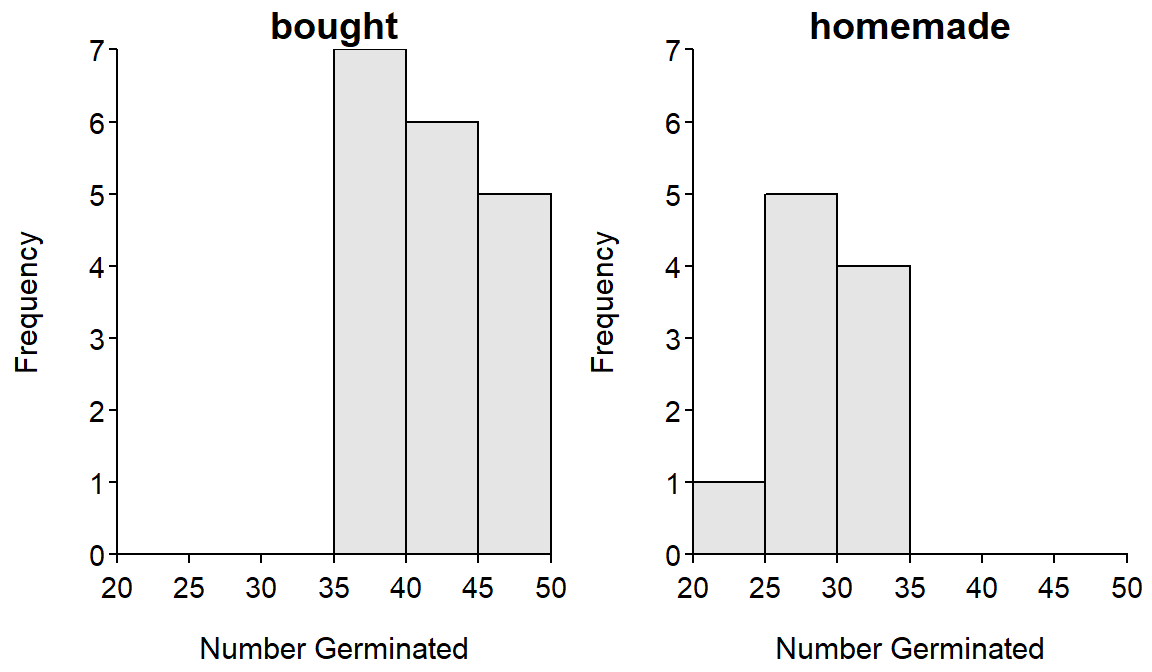
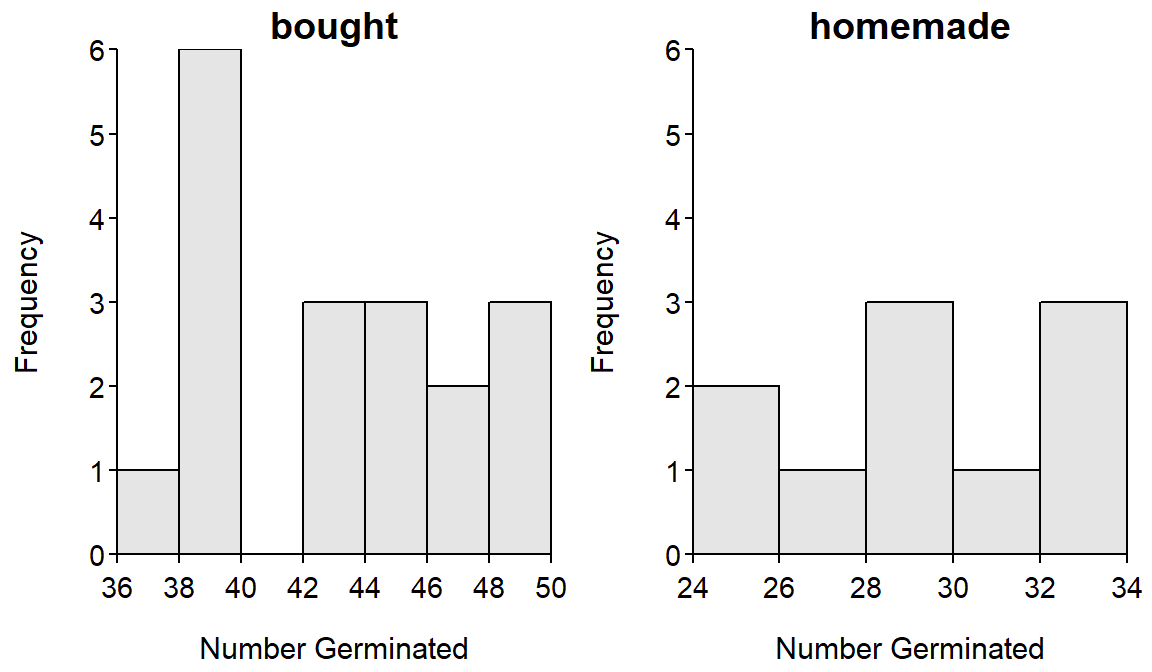
Updated 2t CEs

diff --git a/modules/CE/2Samplet_CE1.html b/modules/CE/2Samplet_CE1.html
@@ -8,9 +8,13 @@ css: "/css/modules.css"
 
 
 <hr />
+<div class="alert alert-success">
+<p>For all “hypothesis testing” questions, make sure to provide explicit answers with your work shown for all <a href="../11-steps,html">11 steps of a hypothesis test</a>.</p>
+</div>
+<hr />
 <div id="compost-type-and-germination-rates" class="section level2">
 <h2>Compost Type and Germination Rates</h2>
-<p><img src="http://derekogle.com/NCMTH107/modules/CE/zimgs/tagetes.jpg" alt="Tagetes" class="img-right"> The owner of a greenhouse developed a methodology to produce sterilized compost for growing plants that was cheaper than the compost she could buy from her soil supplier and allowed her to reduce waste production. However, these benefits could be offset by losses related to poor plant germination and growth. Thus, the owner attempted to answer the queston about germination success by planting 50 seeds of <a href="https://en.wikipedia.org/wiki/Tagetes">marigolds (<em>Tagetes</em> spp.)</a> into individual containers that were filled with either the home-made sterilized compost or compost purchased from the soil supplier. The containers were randomly placed into a large greenhouse where environmental conditions were controlled (i.e., all containers received the same environmental conditions). After five days, the number of (the 50) seeds in each container that had germinated was recorded. The results are shown below.</p>
+<p><img src="http://derekogle.com/NCMTH107/modules/CE/zimgs/tagetes.jpg" alt="Tagetes" class="img-right"> The owner of a greenhouse developed a methodology to produce sterilized compost for growing plants that was cheaper than the compost she could buy while also allowing her to reduce waste production. However, these benefits could be offset by losses related to poor plant germination and growth. Thus, the owner attempted to answer the queston about germination success by planting 50 seeds of <a href="https://en.wikipedia.org/wiki/Tagetes">marigolds (<em>Tagetes</em> spp.)</a> into individual containers that were filled with either the home-made sterilized compost or store-bought compost. The containers were randomly filled with one type of compost and were randomly placed into a large greenhouse where all environmental conditions were controlled. After five days, the number of (the 50) seeds in each container that had germinated was recorded. The results are shown below.</p>
 <pre><code>   compost  n  mean   sd min    Q1 median    Q3 max
 1   bought 18 42.67 4.33  36 39.00   42.5 45.50  50
 2 homemade 10 28.90 3.21  24 27.25   28.0 31.75  33</code></pre>
@@ -19,7 +23,7 @@ css: "/css/modules.css"
 group  1  1.4387 0.2412
       26               </code></pre>
 <p><img src="2Samplet_CE1_files/figure-html/unnamed-chunk-3-1.png" width="576" /></p>
-<p>Use this information to determine, at the 10% level, if the number of seeds that germinated was lower in the home-made compost. [<em>Note that we are testing to see if the germination rate was lower in the home-made compost because that would suggest that it performs worse than the other compost and would increase costs to the greenhouse.</em>] Make sure to provide explicit answers with your work shown for all <a href="../11-steps.html">11 steps of a hypothesis test</a>.<a href="#fn1" class="footnoteRef" id="fnref1"><sup>1</sup></a></p>
+<p>Use this information to determine, at the 10% level, if the number of seeds that germinated was lower in the home-made compost.<a href="#fn1" class="footnote-ref" id="fnref1"><sup>1</sup></a> [<em>NOTE: you are testing if the germination rate was lower in the home-made compost because that would suggest that it performs worse – fewer germinated plants – than the other compost and would increase costs to the greenhouse.</em>]</p>
 <hr />
 <div class="text-center">
 <ul class="pagination pagination-lg">
@@ -42,7 +46,7 @@ group  1  1.4387 0.2412
 <div class="footnotes">
 <hr />
 <ol>
-<li id="fn1"><p>This question was adapted from <a href="http://www.amazon.com/First-Course-Business-Statistics-TEXT/dp/B000MLT2MY/">McClave <em>et al.</em> (1998) <em>First Course in Business Statistics</em></a>.<a href="#fnref1">↩</a></p></li>
+<li id="fn1"><p>This question was adapted from <a href="http://www.amazon.com/First-Course-Business-Statistics-TEXT/dp/B000MLT2MY/">McClave <em>et al.</em> (1998) <em>First Course in Business Statistics</em></a>.<a href="#fnref1" class="footnote-back">↩</a></p></li>
 </ol>
 </div>
 
@@ -63,6 +67,23 @@ $(document).ready(function () {
 
 
 </script>
+
+<!-- tabsets -->
+
+<script>
+$(document).ready(function () {
+  window.buildTabsets("TOC");
+});
+
+$(document).ready(function () {
+  $('.tabset-dropdown > .nav-tabs > li').click(function () {
+    $(this).parent().toggleClass('nav-tabs-open')
+  });
+});
+</script>
+
+<!-- code folding -->
+
 
 <!-- dynamically load mathjax for compatibility with self-contained -->
 <script>

diff --git a/modules/CE/2Samplet_CE2.html b/modules/CE/2Samplet_CE2.html
@@ -8,19 +8,17 @@ css: "/css/modules.css"
 
 
 <hr />
+<div class="alert alert-success">
+<p>For all “hypothesis testing” questions, make sure to provide explicit answers with your work shown for all <a href="../11-steps,html">11 steps of a hypothesis test</a>.</p>
+</div>
+<hr />
 <div id="delivering-military-supplies" class="section level2">
 <h2>Delivering Military Supplies</h2>
-<p><img src="http://derekogle.com/NCMTH107/modules/CE/zimgs/navy-shipping.jpg" alt="Navy Shipping" class="img-right"> Following the <a href="https://en.wikipedia.org/wiki/Gulf_War">Persian Gulf War</a>, the Pentagon changed its logistics processes to be more “corporate-like” – the “just-in-case” mentality was replaced with “just-in-time” systems. Emulating Federal Express and United Parcel Service, deliveries from factories to foxholes were expedited using bar codes, laser cards, radio tags, and databases to track supplies. The data below contains order-to-delivery times (in days) for shipments from the United States to the Persian Gulf in 1991 (old system) and shipments to Bosnia in 1995 (new system). Use these data to determine, at the 5% level, if the mean delivery rates declined significantly under the new system. Assume that the distributions are approxiately normally distributed. Make sure to provide explicit answers with your work shown for all <a href="../11-steps">11 steps of a hypothesis test</a>.<a href="#fn1" class="footnoteRef" id="fnref1"><sup>1</sup></a></p>
+<p><img src="http://derekogle.com/NCMTH107/modules/CE/zimgs/navy-shipping.jpg" alt="Navy Shipping" class="img-right"> Following the <a href="https://en.wikipedia.org/wiki/Gulf_War">Persian Gulf War</a>, the Pentagon changed its logistics processes from following a “just-in-case” mentality to following a “just-in-time” system. With this change deliveries from factories to foxholes were expedited using bar codes, laser cards, radio tags, and databases to track supplies. The data below contains order-to-delivery times (in days) for shipments from the United States to the Persian Gulf in 1991 (old system) and shipments to Bosnia in 1995 (new system). Use these data to determine, at the 5% level, if the mean delivery rates declined significantly under the new system. Assume that the distributions of delivery times are approxiately normally distributed.<a href="#fn1" class="footnote-ref" id="fnref1"><sup>1</sup></a></p>
 <pre>
 Persian Gulf 28.0 20.0 26.5 10.6 9.1 35.2 29.1 41.2 27.5
 Bosnia       15.1  6.4  5.0 11.4 6.5  6.5  3.0  7.0  3.5
 </pre>
-<p> </p>
-<hr />
-</div>
-<div id="additional-practice" class="section level2">
-<h2>Additional Practice</h2>
-<p><a href="2Samplet_CE3">Here are more exercises for practice if time permits.</a></p>
 <p> </p>
 <hr />
 </div>
@@ -30,7 +28,7 @@ Bosnia       15.1  6.4  5.0 11.4 6.5  6.5  3.0  7.0  3.5
 <div class="footnotes">
 <hr />
 <ol>
-<li id="fn1"><p>This questions was adapted from <a href="http://www.wiley.com/WileyCDA/WileyTitle/productCd-1405149566.html">Emden (2008) Statistics for Terrified Biologists</a><a href="#fnref1">↩</a></p></li>
+<li id="fn1"><p>This questions was adapted from <a href="http://www.wiley.com/WileyCDA/WileyTitle/productCd-1405149566.html">Emden (2008) Statistics for Terrified Biologists</a><a href="#fnref1" class="footnote-back">↩</a></p></li>
 </ol>
 </div>
 
@@ -51,6 +49,23 @@ $(document).ready(function () {
 
 
 </script>
+
+<!-- tabsets -->
+
+<script>
+$(document).ready(function () {
+  window.buildTabsets("TOC");
+});
+
+$(document).ready(function () {
+  $('.tabset-dropdown > .nav-tabs > li').click(function () {
+    $(this).parent().toggleClass('nav-tabs-open')
+  });
+});
+</script>
+
+<!-- code folding -->
+
 
 <!-- dynamically load mathjax for compatibility with self-contained -->
 <script>

diff --git a/modules/CE/2Samplet_CE3.md b/modules/CE/2Samplet_CE3.md
@@ -7,6 +7,11 @@ css: "/css/modules.css"
 
 ----
 
+<div class="alert alert-success">For all "hypothesis testing" questions, make sure to provide explicit answers with your work shown for all <a href="../11-steps,html">11 steps of a hypothesis test</a>.
+</div>
+
+----
+
 ## Commitment to Adult Animals
 <img src="zimgs/animal-commitment.png" alt="Commitment to Animals" class="img-right">
 
@@ -44,6 +49,6 @@ For each situation below, (a) compute the t test statistic, (b) compute the p-va
 
 ## Confidence Interval Calculations
 
-For the same situations above, (a) identify the level of confidence; (b) whether a lower confidence bound, upper confidence bound, or confidence interval should be constructed; (c) find t<sup>*</sup> (include a drawing that illustrates your calculation); (d) construct the confidence region; and (e) specifically interpret the confidence region.
+Compute and interpret confidence regions for the two situations above. You should use the same "steps" as you did in the [confidence regions module](ConfRegions_CE2).
 
 ----
